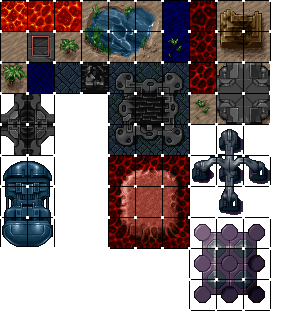
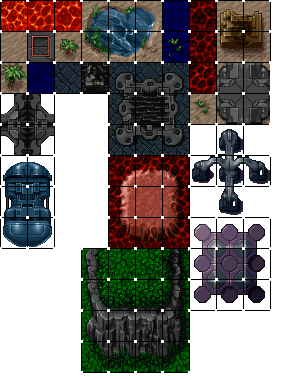
added some new images and object layer

diff --git a/src/com/emptyyourmind/Main.java b/src/com/emptyyourmind/Main.java
@@ -8,6 +8,8 @@ import org.anddev.andengine.engine.options.resolutionpolicy.RatioResolutionPolic
 import org.anddev.andengine.entity.layer.tiled.tmx.TMXLayer;
 import org.anddev.andengine.entity.layer.tiled.tmx.TMXLoader;
 import org.anddev.andengine.entity.layer.tiled.tmx.TMXLoader.ITMXTilePropertiesListener;
+import org.anddev.andengine.entity.layer.tiled.tmx.TMXObject;
+import org.anddev.andengine.entity.layer.tiled.tmx.TMXObjectGroup;
 import org.anddev.andengine.entity.layer.tiled.tmx.TMXProperties;
 import org.anddev.andengine.entity.layer.tiled.tmx.TMXTile;
 import org.anddev.andengine.entity.layer.tiled.tmx.TMXTileProperty;
@@ -27,8 +29,6 @@ import org.anddev.andengine.opengl.texture.region.TiledTextureRegion;
 import org.anddev.andengine.ui.activity.BaseGameActivity;
 import org.anddev.andengine.util.Debug;
 import org.anddev.andengine.util.Path;
-
-import android.widget.Toast;
 
 public class Main extends BaseGameActivity 
 {
@@ -94,7 +94,7 @@ public class Main extends BaseGameActivity
 			});
 			this.mTMXTiledMap = tmxLoader.loadFromAsset(this, "tmx/firstAttack.tmx");
 
-			Toast.makeText(this, "Cactus count in this TMXTiledMap: " + this.mCactusCount, Toast.LENGTH_LONG).show();
+//			Toast.makeText(this, "Cactus count in this TMXTiledMap: " + this.mCactusCount, Toast.LENGTH_LONG).show();
 		} catch (final TMXLoadException tmxle) {
 			Debug.e(tmxle);
 		}
@@ -102,6 +102,8 @@ public class Main extends BaseGameActivity
 		final TMXLayer tmxLayer = this.mTMXTiledMap.getTMXLayers().get(0);
 		final TMXLayer tmxLayer2 = this.mTMXTiledMap.getTMXLayers().get(1);
 		final TMXLayer tmxLayer3 = this.mTMXTiledMap.getTMXLayers().get(2);
+		TMXObjectGroup tmxObjectGroup = this.mTMXTiledMap.getTMXObjectGroups().get(0);
+		TMXObject tmxObject = tmxObjectGroup.getTMXObjects().get(0);
 		scene.getBottomLayer().addEntity(tmxLayer);
 		scene.getBottomLayer().addEntity(tmxLayer2);
 		scene.getBottomLayer().addEntity(tmxLayer3);
